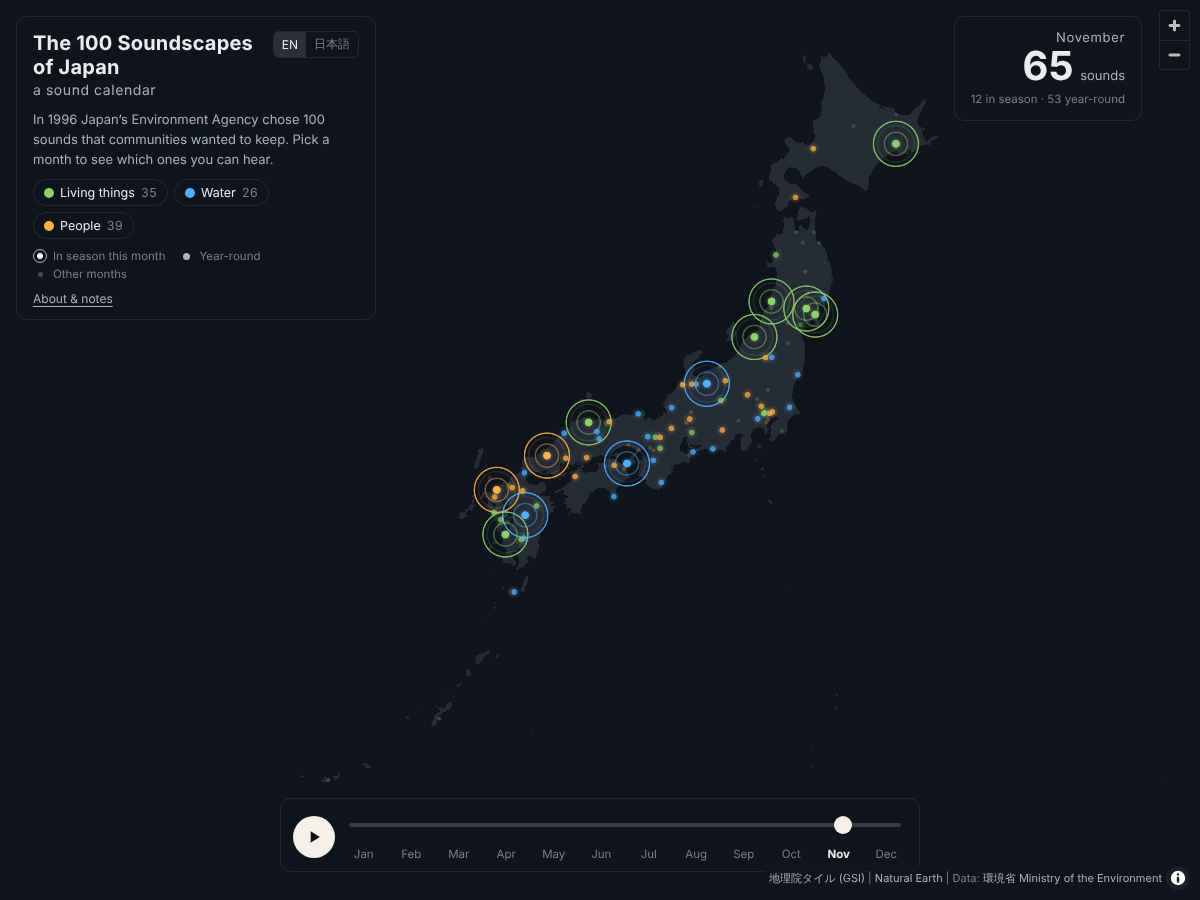
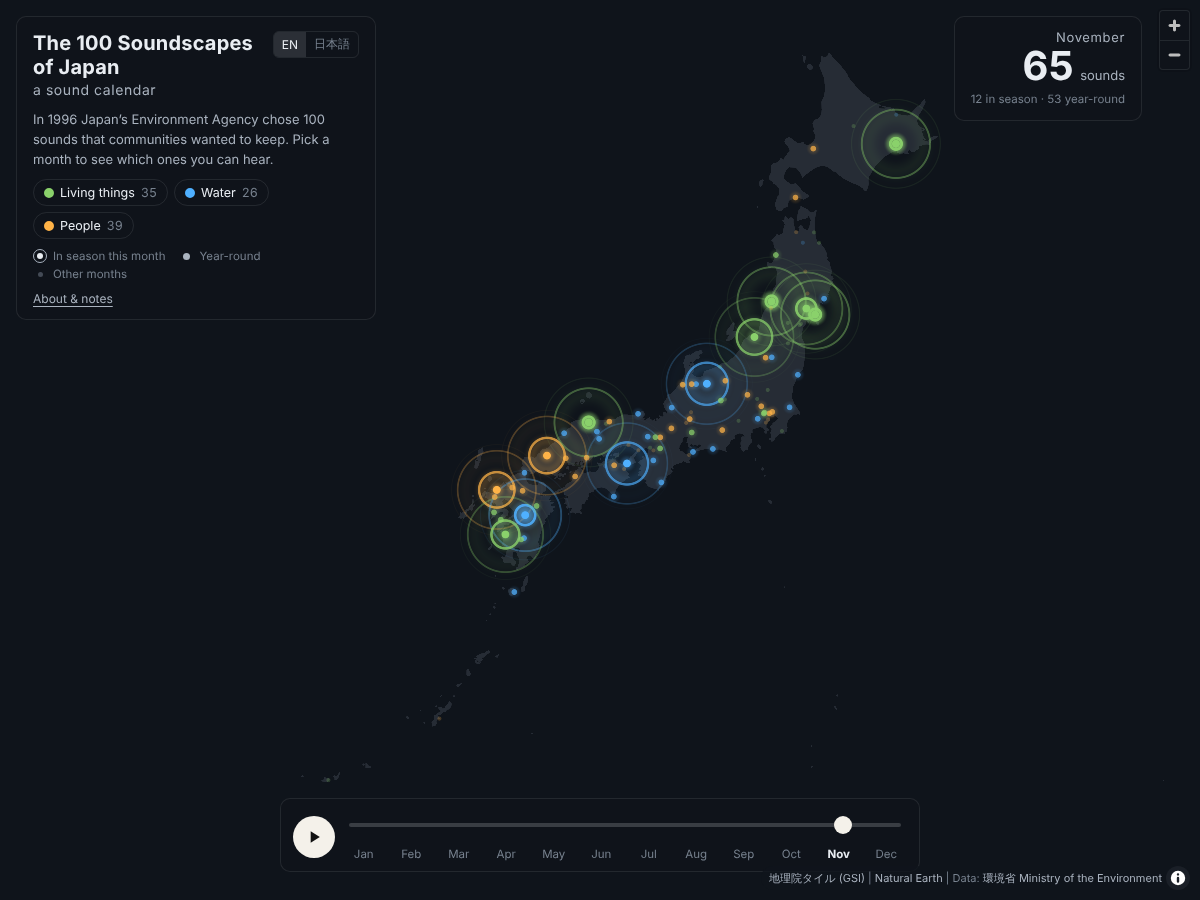
Make ripples larger and fade out softly
Rings now spread wider, thin out and blur as they fade, with a soft
bloom and a core that flares as each wave starts. Points are offset
in time so they do not pulse together, and a short flare marks each
month change. Points not in season draw nothing to keep rendering light.

Changed region(s): [[0.37, 0.4356, 0.555, 0.6222], [0.555, 0.28, 0.7092, 0.4667], [0.7092, 0.1244, 0.7708, 0.1867]]

diff --git a/js/app.js b/js/app.js
@@ -218,23 +218,37 @@
           paint: {
             'circle-radius': ['interpolate', ['linear'], ['zoom'], 4, 7, 8, 11],
             'circle-color': catColor(),
-            'circle-opacity': ['case', H, 0, ['==', S, 1], 0.14, ['==', S, 2], 0.22, 0],
+            'circle-opacity': ['case', H, 0, ['==', S, 1], 0.14, 0],
             'circle-blur': 0.6
           }
         });
-        // ripples (3 rings, animated)
-        for (var k = 0; k < 3; k++) {
+        // soft light that spreads out with each wave
+        map.addLayer({
+          id: 'bloom', type: 'circle', source: 'pts',
+          paint: { 'circle-radius': 0, 'circle-color': catColor(), 'circle-opacity': 0, 'circle-blur': 1 }
+        });
+        // ripples: a sharp ring plus a wide faint ring around it for glow
+        for (var k = 0; k < RINGS; k++) {
+          map.addLayer({
+            id: 'rglow' + k, type: 'circle', source: 'pts',
+            paint: {
+              'circle-radius': 0, 'circle-color': 'rgba(0,0,0,0)', 'circle-blur': 0.5,
+              'circle-stroke-color': catColor(), 'circle-stroke-width': 6, 'circle-stroke-opacity': 0
+            }
+          });
           map.addLayer({
             id: 'ripple' + k, type: 'circle', source: 'pts',
             paint: {
-              'circle-radius': 6,
-              'circle-color': 'rgba(0,0,0,0)',
-              'circle-stroke-color': catColor(),
-              'circle-stroke-width': 1.4,
-              'circle-stroke-opacity': 0
+              'circle-radius': 0, 'circle-color': 'rgba(0,0,0,0)',
+              'circle-stroke-color': catColor(), 'circle-stroke-width': 1.5, 'circle-stroke-opacity': 0
             }
           });
         }
+        // glowing core that flares each time a wave is sent out
+        map.addLayer({
+          id: 'core', type: 'circle', source: 'pts',
+          paint: { 'circle-radius': 10, 'circle-color': catColor(), 'circle-opacity': 0, 'circle-blur': 1 }
+        });
         map.addLayer({
           id: 'dot', type: 'circle', source: 'pts',
           paint: {
@@ -306,6 +320,7 @@
 
   function setMonth(m) {
     state.month = ((m - 1 + 12) % 12) + 1;
+    lastMonthChange = performance.now();
     applyMonth();
   }
 
@@ -466,31 +481,89 @@
 
   // ---------- ripple animation ----------
   var rafId = null;
-  var PERIOD = 2400;
-  function ringPaint(phase) {
-    // radius grows, opacity fades
-    var r = 5 + phase * 20;
-    var o = Math.pow(1 - phase, 1.6) * 0.9;
-    return { r: r, o: o };
+  var RINGS = 3;          // rings in flight per point
+  var GROUPS = 5;         // points are split into groups so they do not pulse in step
+  var PERIOD = 3600;      // ms for one ring to grow and vanish
+  var lastMonthChange = -1e9;
+  var ACTIVE = ['all', ['==', S, 2], ['!', H]];
+  var GROUP = ['%', ['get', 'id'], GROUPS];
+
+  function easeOut(t) { return 1 - Math.pow(1 - t, 3); }
+  function zoomScale() {
+    var z = map.getZoom();
+    return Math.max(0.55, Math.min(2.2, Math.pow(2, (z - 4.6) * 0.45)));
   }
-  function setRing(k, r, o) {
-    var vis = ['all', ['==', S, 2], ['!', H]];
-    map.setPaintProperty('ripple' + k, 'circle-radius', r);
-    map.setPaintProperty('ripple' + k, 'circle-stroke-opacity', ['case', vis, o, 0]);
+  function byGroup(values) {
+    var e = ['match', GROUP];
+    for (var g = 0; g < GROUPS - 1; g++) e.push(g, values[g]);
+    e.push(values[GROUPS - 1]);
+    return e;
   }
+  // zero for points not in season, so hidden points draw nothing (keeps GPU load low)
+  function only(expr) { return ['case', ACTIVE, expr, 0]; }
+
+  var paintCache = {};
+  function paint(layer, prop, value) {
+    var key = layer + '|' + prop;
+    var str = JSON.stringify(value);
+    if (paintCache[key] === str) return;
+    paintCache[key] = str;
+    map.setPaintProperty(layer, prop, value);
+  }
+  var lastFrame = 0;
   function frame(ts) {
-    for (var k = 0; k < 3; k++) {
-      var phase = ((ts / PERIOD) + k / 3) % 1;
-      var p = ringPaint(phase);
-      setRing(k, p.r, p.o);
-    }
     rafId = requestAnimationFrame(frame);
+    if (ts - lastFrame < 32) return;
+    lastFrame = ts;
+    var sc = zoomScale();
+    var maxR = 46 * sc;
+    var burst = Math.max(0, 1 - (ts - lastMonthChange) / 900);
+    for (var k = 0; k < RINGS; k++) {
+      var r = [], o = [], w = [], go = [];
+      for (var g = 0; g < GROUPS; g++) {
+        var ph = ((ts / PERIOD) + k / RINGS + g * 0.37) % 1;
+        var e = easeOut(ph);
+        var fade = Math.pow(1 - ph, 2.2);
+        r.push(+(4 + e * maxR).toFixed(1));
+        o.push(+(fade * 0.95).toFixed(3));
+        w.push((0.4 + 2.6 * (1 - ph)) * Math.min(sc, 1.4));
+        go.push(+(fade * 0.3).toFixed(3));
+      }
+      paint('ripple' + k, 'circle-radius', only(byGroup(r)));
+      paint('ripple' + k, 'circle-stroke-width', byGroup(w));
+      paint('ripple' + k, 'circle-stroke-opacity', only(byGroup(o)));
+      paint('rglow' + k, 'circle-radius', only(byGroup(r)));
+      paint('rglow' + k, 'circle-stroke-width', byGroup(w.map(function (x) { return x * 2.2 + 2; })));
+      paint('rglow' + k, 'circle-stroke-opacity', only(byGroup(go)));
+    }
+    // bloom follows the newest ring of each group; core flares when a ring is born
+    var br = [], bo = [], cr = [], co = [];
+    for (var g2 = 0; g2 < GROUPS; g2++) {
+      var p0 = ((ts / PERIOD) * RINGS + g2 * 0.37 * RINGS) % 1;
+      br.push(6 + easeOut(p0) * maxR * 0.55);
+      bo.push(Math.pow(1 - p0, 1.5) * 0.28);
+      cr.push((9 + 5 * Math.pow(1 - p0, 2)) * Math.min(sc, 1.6) * (1 + burst * 1.2));
+      co.push(Math.min(0.95, 0.35 + 0.45 * Math.pow(1 - p0, 3) + burst * 0.5));
+    }
+    paint('bloom', 'circle-radius', only(byGroup(br)));
+    paint('bloom', 'circle-opacity', only(byGroup(bo)));
+    paint('core', 'circle-radius', only(byGroup(cr)));
+    paint('core', 'circle-opacity', only(byGroup(co)));
   }
   function drawStatic() {
     if (!map.getLayer('ripple0')) return;
-    setRing(0, 9, 0.6);
-    setRing(1, 14, 0.3);
-    setRing(2, 0, 0);
+    paintCache = {};
+    var radii = [10, 18, 0];
+    var ops = [0.7, 0.35, 0];
+    for (var k = 0; k < RINGS; k++) {
+      map.setPaintProperty('ripple' + k, 'circle-radius', only(radii[k] || 0));
+      map.setPaintProperty('ripple' + k, 'circle-stroke-width', 1.4);
+      map.setPaintProperty('ripple' + k, 'circle-stroke-opacity', only(ops[k] || 0));
+      map.setPaintProperty('rglow' + k, 'circle-stroke-opacity', 0);
+    }
+    map.setPaintProperty('bloom', 'circle-opacity', 0);
+    map.setPaintProperty('core', 'circle-radius', only(10));
+    map.setPaintProperty('core', 'circle-opacity', only(0.4));
   }
   function startAnimation() {
     if (rafId) cancelAnimationFrame(rafId);
